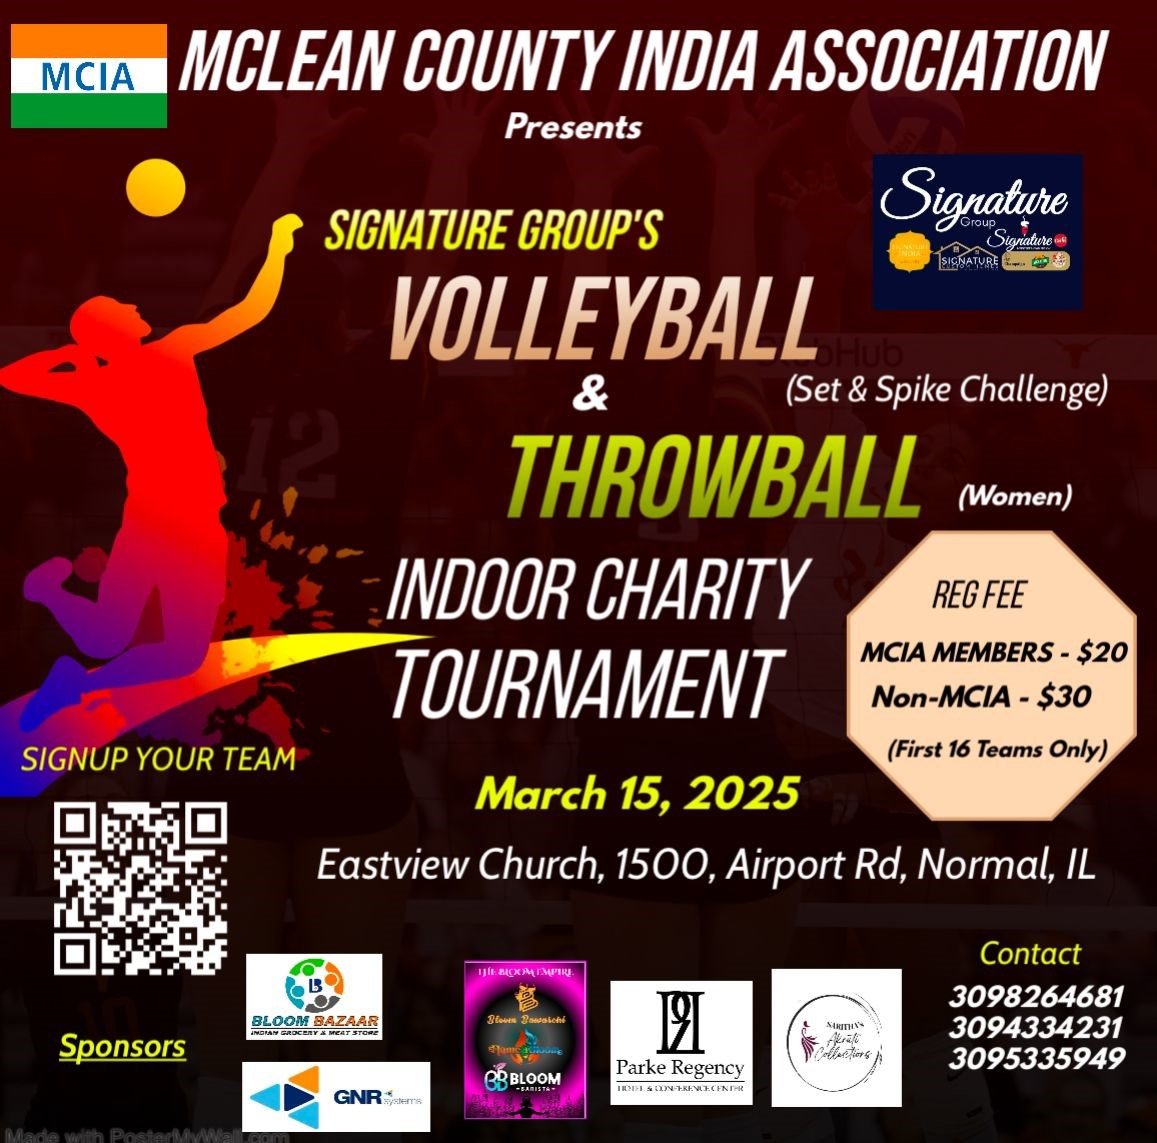
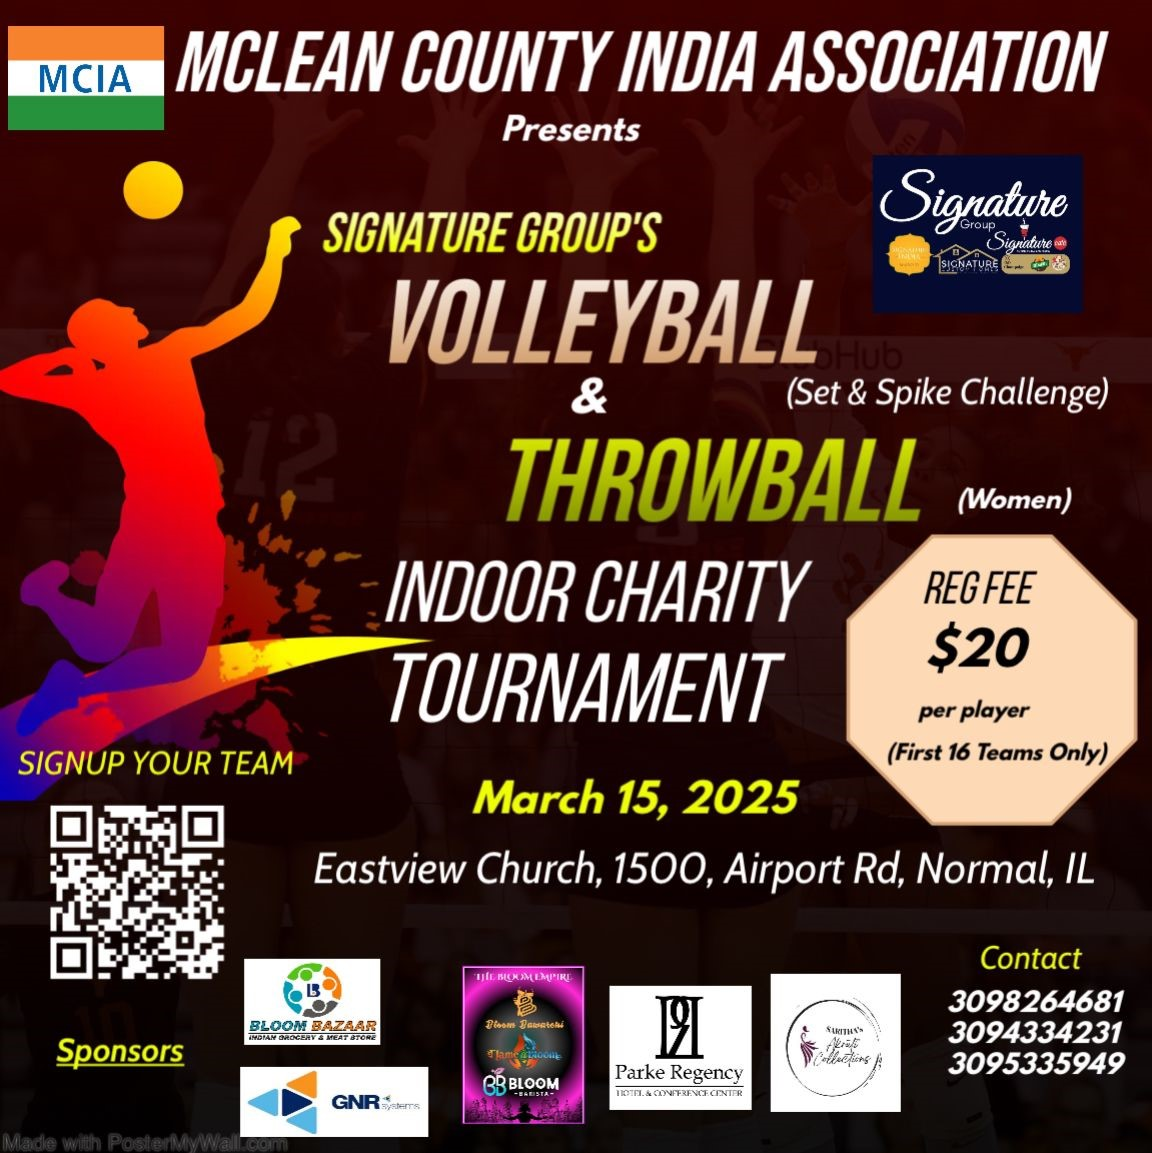
Youth Volunteering whatsapp group added, Volleyball flyer updatex

diff --git a/src/javascript/youth.js b/src/javascript/youth.js
@@ -24,7 +24,7 @@ const Youth = () => {
       <p >&nbsp;</p>
       <div className="row">
 
-        <h5 className="center-align"><a type="button" class="btn btn-primary btn-lg" href="https://goo.gl/forms/9uU5mcIEKk01IuSG2">Register here</a></h5>
+        <h5 className="center-align"><a type="button" class="btn btn-primary btn-lg" href="https://chat.whatsapp.com/FQEfOk3qmD5Btua3wlkNcg">Join Youth Volunteering Whatsapp Group</a></h5>
       </div>
 
       <h4 className="center-align"><b >Note that you need to be a member to take advantage of this facility.</b></h4>
@@ -82,7 +82,6 @@ const Youth = () => {
       <div><hr class="hr-line"></hr></div>
 
     </div>
-
 
 
 
